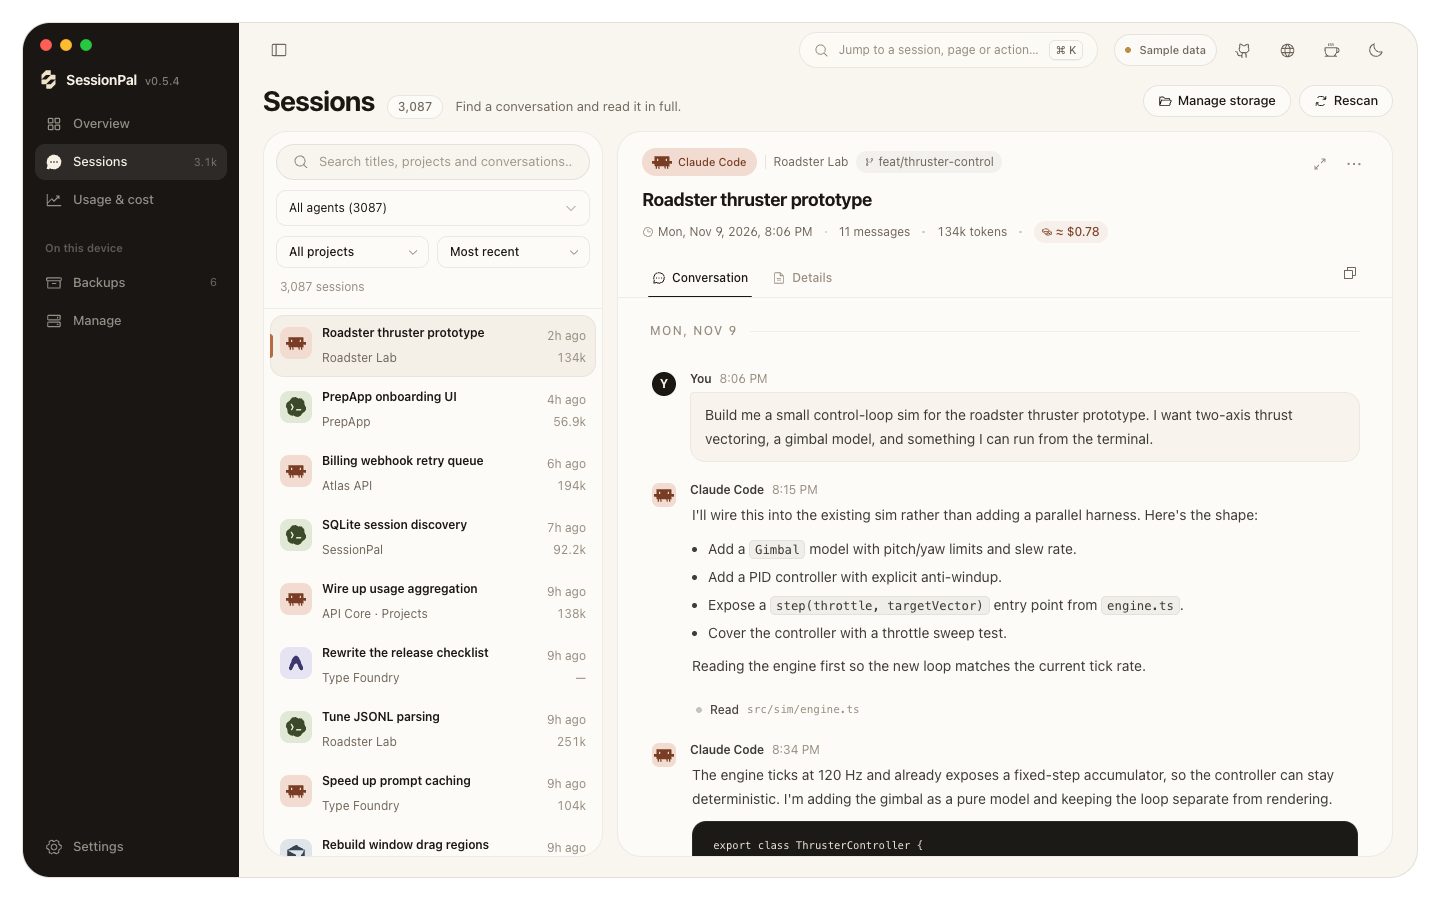
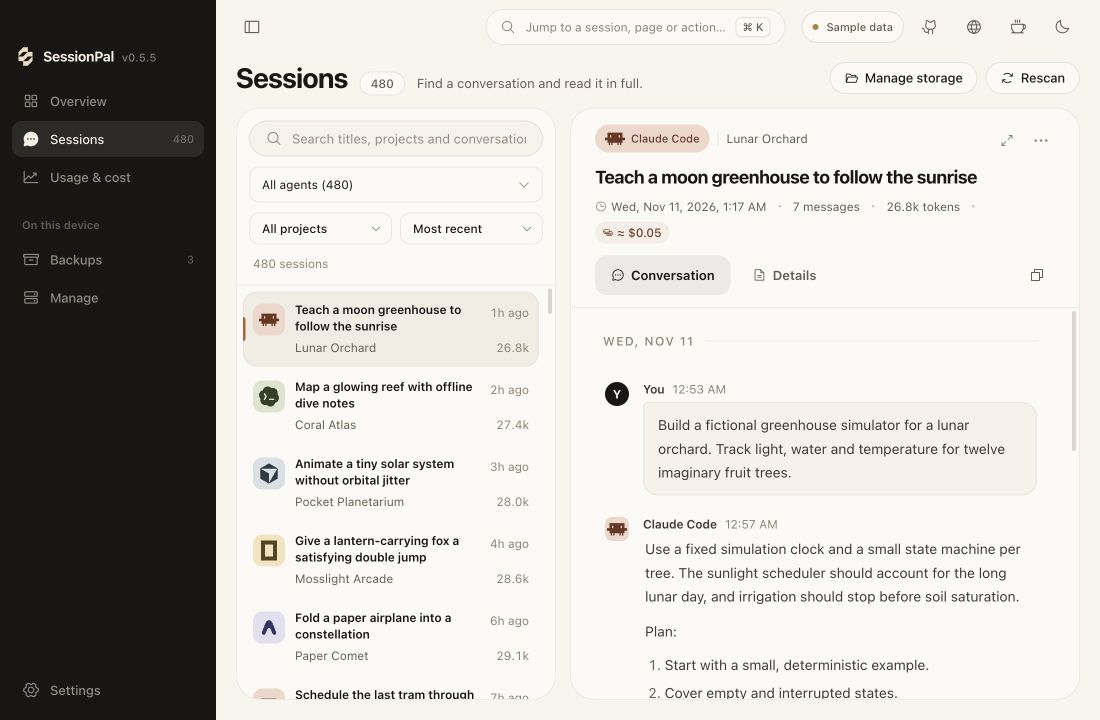
Refresh README screenshots with the current fictional demo

diff --git a/README.md b/README.md
@@ -6,7 +6,9 @@ SessionPal is a local-first desktop library for sessions from **Claude Code, Cod
 
 [**Download for macOS or Windows**](https://github.com/essjaykay755/sessionpal/releases) · [Website](https://sessionpal.essjaykay.dev) · [Development guide](docs/development.md) · [Changelog](CHANGELOG.md)
 
-![SessionPal overview showing session activity, recent conversations, and agents](docs/screenshots/overview.png)
+![SessionPal 0.5.5 overview showing a fictional studio library, activity, and agents](docs/screenshots/overview.png)
+
+*Screenshots show SessionPal 0.5.5 with fictional projects, conversations, usage figures and backups.*
 
 ## Get started
 
@@ -20,13 +22,13 @@ See the [first-launch guide](docs/data-and-privacy.md#first-launch) for folder p
 
 Search titles, projects, models, and conversation text across your agents. Filter by agent or project, then read messages, code, tool calls, and results in the transcript reader. Export individual sessions or a selection as Markdown or JSON.
 
-![Sessions list and conversation transcript](docs/screenshots/sessions.png)
+![Sessions list and Lunar Orchard sample conversation with Conversation and Details tabs](docs/screenshots/sessions.png)
 
 ## Understand your usage
 
 Explore tokens by time, project, model, and agent. See cache savings and estimated API-equivalent costs based on public model rates. These are **estimates, not bills**; subscription pricing and credits aren’t included.
 
-![Usage dashboard with token chart and cost estimates](docs/screenshots/usage.png)
+![Usage dashboard with four aligned summary cards, rounded section tabs, and token and cost charts](docs/screenshots/usage.png)
 
 [How cost estimates work](docs/data-and-privacy.md#cost-estimates)
 
@@ -34,13 +36,13 @@ Explore tokens by time, project, model, and agent. See cache savings and estimat
 
 Create portable ZIP archives with a manifest and session index, or import an existing archive. Restores validate and stage archive contents, then write only missing files; existing files are never overwritten. Database-backed sessions are archived for inspection and export but aren’t restored into live agent databases.
 
-![Backups page showing local archives](docs/screenshots/backups.png)
+![Backups page showing fictional archive coverage and storage](docs/screenshots/backups.png)
 
 ## Manage storage
 
 See storage by agent and select supported file-based sessions for cleanup. Deletion requires confirmation, validates paths, and moves files to the Trash or Recycle Bin. Database-backed sessions remain read-only.
 
-![Management page showing storage by agent and session cleanup](docs/screenshots/manage.png)
+![Management page showing fictional sessions, filters, storage, and read-only database records](docs/screenshots/manage.png)
 
 ## Supported agents
 
@@ -70,7 +72,7 @@ Choose light, dark, or system appearance, reduce motion if you prefer, and use t
 <details>
 <summary>See Settings</summary>
 
-![Settings page showing appearance and application preferences](docs/screenshots/settings.png)
+![Settings page showing rounded section tabs, appearance, and application preferences](docs/screenshots/settings.png)
 
 </details>
 
